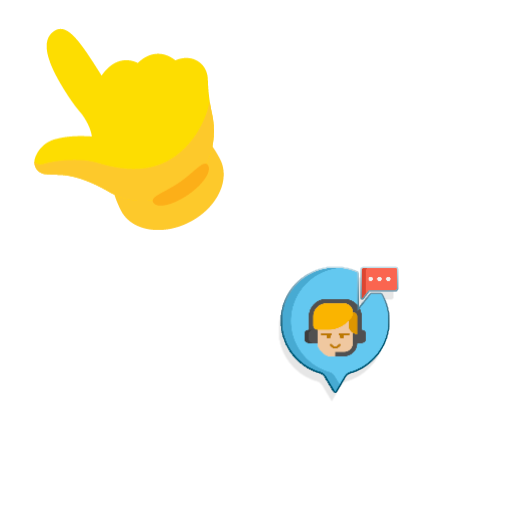
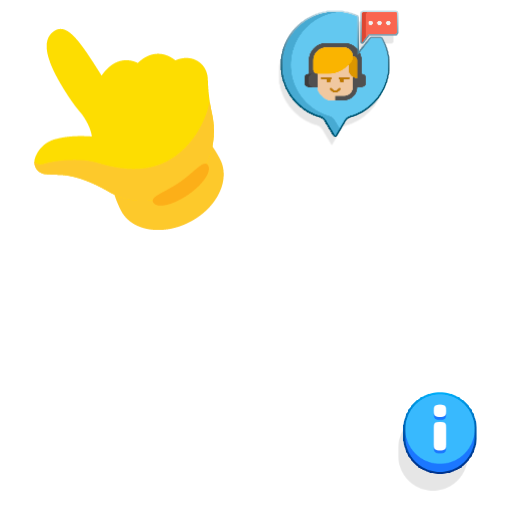
-

Changed region(s): [[0.5312, 0.5, 0.7812, 0.7812], [0.5312, 0.0, 0.7812, 0.2812], [0.7812, 0.75, 0.9375, 0.9688]]

diff --git a/puzzlegame/game_html/scripts/c3runtime.js b/puzzlegame/game_html/scripts/c3runtime.js
@@ -1543,6 +1543,12 @@ function or(l, r)
 
 self.C3_ExpressionFuncs = [
 		() => 0,
+		p => {
+			const f0 = p._GetNode(0).GetBoundMethod();
+			return () => f0(0);
+		},
+		() => "Portrait",
+		() => "Landscape",
 		() => "projectVers",
 		p => {
 			const f0 = p._GetNode(0).GetBoundMethod();
@@ -1551,13 +1557,45 @@ self.C3_ExpressionFuncs = [
 		() => "Categories",
 		() => "Pieces",
 		() => "",
-		() => "UpdateUI",
+		() => "tutorial_gameplay",
+		() => "i",
+		p => {
+			const n0 = p._GetNode(0);
+			return () => (n0.ExpObject() - 1);
+		},
+		p => {
+			const n0 = p._GetNode(0);
+			const f1 = p._GetNode(1).GetBoundMethod();
+			return () => n0.ExpObject(f1("i"), 0);
+		},
+		p => {
+			const n0 = p._GetNode(0);
+			const v1 = p._GetNode(1).GetVar();
+			return () => n0.ExpObject(v1.GetValue());
+		},
+		p => {
+			const v0 = p._GetNode(0).GetVar();
+			return () => v0.GetValue();
+		},
 		p => {
 			const f0 = p._GetNode(0).GetBoundMethod();
-			return () => f0(0);
+			return () => f0("i");
 		},
-		() => "Portrait",
-		() => "Landscape",
+		p => {
+			const n0 = p._GetNode(0);
+			const f1 = p._GetNode(1).GetBoundMethod();
+			return () => n0.ExpObject(f1("i"), 1);
+		},
+		p => {
+			const n0 = p._GetNode(0);
+			const v1 = p._GetNode(1).GetVar();
+			return () => n0.ExpObject((("catName.ru" + ".") + v1.GetValue()));
+		},
+		p => {
+			const v0 = p._GetNode(0).GetVar();
+			return () => (v0.GetValue() + 1);
+		},
+		() => "UpdateUI",
 		p => {
 			const n0 = p._GetNode(0);
 			return () => n0.ExpObject();
@@ -1642,10 +1680,6 @@ self.C3_ExpressionFuncs = [
 		p => {
 			const n0 = p._GetNode(0);
 			return () => (40 + (n0.ExpObject() * 20));
-		},
-		p => {
-			const v0 = p._GetNode(0).GetVar();
-			return () => v0.GetValue();
 		},
 		p => {
 			const n0 = p._GetNode(0);
@@ -1972,11 +2006,6 @@ self.C3_ExpressionFuncs = [
 			return () => n0.ExpObject(and(("dailyPuzzleBottom." + v1.GetValue()), f2(".0", ".1", ".2")));
 		},
 		() => "daily",
-		p => {
-			const n0 = p._GetNode(0);
-			const v1 = p._GetNode(1).GetVar();
-			return () => n0.ExpObject((("catName.ru" + ".") + v1.GetValue()));
-		},
 		p => {
 			const n0 = p._GetNode(0);
 			const n1 = p._GetNode(1);
@@ -2319,6 +2348,16 @@ self.C3_ExpressionFuncs = [
 			const n1 = p._GetNode(1);
 			return () => (f0(0) - (n1.ExpObject() / 6));
 		},
+		p => {
+			const f0 = p._GetNode(0).GetBoundMethod();
+			const n1 = p._GetNode(1);
+			return () => (f0(0) + n1.ExpObject());
+		},
+		p => {
+			const f0 = p._GetNode(0).GetBoundMethod();
+			const n1 = p._GetNode(1);
+			return () => (f0(0) - n1.ExpObject());
+		},
 		() => "bottom",
 		() => "orderCategories",
 		() => "BG",
@@ -2400,8 +2439,6 @@ self.C3_ExpressionFuncs = [
 			return () => (n0.ExpObject() * 80);
 		},
 		() => "savedTime",
-		() => "tutorial",
-		() => "tutorial_gameplay",
 		() => "sound",
 		p => {
 			const n0 = p._GetNode(0);
@@ -2412,8 +2449,6 @@ self.C3_ExpressionFuncs = [
 			const n1 = p._GetNode(1);
 			return () => and("unlock_", n0.ExpObject(n1.ExpObject()));
 		},
-		() => "Tutorial",
-		() => "Buttons",
 		p => {
 			const f0 = p._GetNode(0).GetBoundMethod();
 			return () => f0("Data");
@@ -2430,10 +2465,6 @@ self.C3_ExpressionFuncs = [
 			const n0 = p._GetNode(0);
 			return () => n0.ExpObject("sound");
 		},
-		p => {
-			const n0 = p._GetNode(0);
-			return () => n0.ExpObject("tutorial");
-		},
 		() => "progress",
 		p => {
 			const f0 = p._GetNode(0).GetBoundMethod();
@@ -2448,12 +2479,14 @@ self.C3_ExpressionFuncs = [
 			const v1 = p._GetNode(1).GetVar();
 			return () => ((v0.GetValue() / v1.GetValue()) * 100);
 		},
+		() => "Buttons",
 		p => {
 			const f0 = p._GetNode(0).GetBoundMethod();
 			return () => f0(3, 5);
 		},
 		() => "Daily",
 		() => -15,
+		() => "cat",
 		p => {
 			const n0 = p._GetNode(0);
 			const v1 = p._GetNode(1).GetVar();
@@ -2488,11 +2521,13 @@ self.C3_ExpressionFuncs = [
 			const n0 = p._GetNode(0);
 			return () => ((n0.ExpObject()) ? (0) : (1));
 		},
+		() => "Tutorial",
 		p => {
 			const v0 = p._GetNode(0).GetVar();
 			return () => C3.clamp((v0.GetValue() + 1), 0, 6);
 		},
 		() => 45,
+		() => "tutorial",
 		p => {
 			const n0 = p._GetNode(0);
 			const v1 = p._GetNode(1).GetVar();
@@ -2528,6 +2563,10 @@ self.C3_ExpressionFuncs = [
 			const v1 = p._GetNode(1).GetVar();
 			return () => n0.ExpObject(("step5." + v1.GetValue()));
 		},
+		p => {
+			const n0 = p._GetNode(0);
+			return () => (n0.ExpObject() - 100);
+		},
 		() => "Debug",
 		p => {
 			const n0 = p._GetNode(0);
@@ -2542,10 +2581,6 @@ self.C3_ExpressionFuncs = [
 		() => "Вася Васильев",
 		() => 75,
 		() => "scr.png",
-		p => {
-			const n0 = p._GetNode(0);
-			return () => (n0.ExpObject() - 1);
-		},
 		p => {
 			const f0 = p._GetNode(0).GetBoundMethod();
 			return () => f0("x");

diff --git a/puzzlegame/game_html/scripts/objRefTable.js b/puzzlegame/game_html/scripts/objRefTable.js
@@ -29,6 +29,11 @@ self.C3_GetObjectRefTable = function () {
 		C3.Plugins.System.Cnds.OnLayoutStart,
 		C3.Plugins.System.Acts.SetVar,
 		C3.Plugins.System.Acts.SetBoolVar,
+		C3.Plugins.System.Cnds.Compare,
+		C3.Plugins.System.Exps.viewportwidth,
+		C3.Plugins.System.Exps.viewportheight,
+		C3.Plugins.Browser.Cnds.IsPortraitLandscape,
+		C3.Plugins.Sprite.Acts.SetAnim,
 		C3.Plugins.Spritefont2.Cnds.HasTags,
 		C3.Plugins.Spritefont2.Acts.SetText,
 		C3.Plugins.System.Exps.projectversion,
@@ -36,12 +41,16 @@ self.C3_GetObjectRefTable = function () {
 		C3.Plugins.System.Acts.SetLayerInteractive,
 		C3.Plugins.System.Acts.SetLayerVisible,
 		C3.Plugins.System.Cnds.Else,
+		C3.Plugins.Dictionary.Cnds.HasKey,
+		C3.Plugins.System.Cnds.For,
+		C3.Plugins.Arr.Exps.Width,
+		C3.Plugins.Arr.Exps.At,
+		C3.Plugins.System.Exps.loopindex,
+		C3.Plugins.Dictionary.Exps.Get,
+		C3.Plugins.System.Cnds.CompareVar,
+		C3.Plugins.Json.Exps.Get,
+		C3.Plugins.System.Acts.StopLoop,
 		C3.Plugins.System.Cnds.IsGroupActive,
-		C3.Plugins.System.Cnds.Compare,
-		C3.Plugins.System.Exps.viewportwidth,
-		C3.Plugins.System.Exps.viewportheight,
-		C3.Plugins.Browser.Cnds.IsPortraitLandscape,
-		C3.Plugins.Sprite.Acts.SetAnim,
 		C3.Plugins.NinePatch.Exps.Count,
 		C3.Plugins.NinePatch.Acts.Destroy,
 		C3.Plugins.Sprite.Acts.Destroy,
@@ -62,12 +71,10 @@ self.C3_GetObjectRefTable = function () {
 		C3.Plugins.Sprite.Acts.SetZ,
 		C3.Plugins.NinePatch.Exps.BBoxRight,
 		C3.Plugins.Arr.Cnds.ArrForEach,
-		C3.Plugins.Arr.Exps.At,
 		C3.Plugins.Arr.Exps.CurX,
 		C3.Plugins.Sprite.Acts.SetInstanceVar,
 		C3.Plugins.NinePatch.Exps.BBoxMidX,
 		C3.Plugins.NinePatch.Acts.SetInstanceVar,
-		C3.Plugins.Dictionary.Exps.Get,
 		C3.Plugins.NinePatch.Acts.SetDefaultColor,
 		C3.Plugins.System.Exps.hexcolor,
 		C3.Plugins.NinePatch.Acts.MoveToLayer,
@@ -77,8 +84,6 @@ self.C3_GetObjectRefTable = function () {
 		C3.Plugins.Spritefont2.Acts.SetY,
 		C3.Plugins.NinePatch.Acts.SetBoolInstanceVar,
 		C3.Plugins.TiledBg.Acts.SetWidth,
-		C3.Plugins.Json.Exps.Get,
-		C3.Plugins.System.Cnds.CompareVar,
 		C3.Plugins.Sprite.Acts.SetVisible,
 		C3.Plugins.TiledBg.Acts.SetVisible,
 		C3.Plugins.NinePatch.Acts.SetOpacity,
@@ -124,8 +129,6 @@ self.C3_GetObjectRefTable = function () {
 		C3.Behaviors.Timer.Exps.Duration,
 		C3.Behaviors.Timer.Exps.CurrentTime,
 		C3.Behaviors.DragnDrop.Acts.SetEnabled,
-		C3.Plugins.System.Cnds.For,
-		C3.Plugins.System.Exps.loopindex,
 		C3.Plugins.DrawingCanvas.Acts.AddChild,
 		C3.Plugins.DrawingCanvas.Acts.SetInstanceVar,
 		C3.Plugins.DrawingCanvas.Acts.OutlineRect,
@@ -194,6 +197,7 @@ self.C3_GetObjectRefTable = function () {
 		C3.Behaviors.Tween.Acts.TweenValue,
 		C3.Plugins.System.Acts.SetLayoutAngle,
 		C3.Behaviors.Tween.Exps.Value,
+		C3.Plugins.TiledBg.Acts.Destroy,
 		C3.Plugins.Touch.Cnds.OnTapGestureObject,
 		C3.Plugins.Touch.Cnds.IsTouchingObject,
 		C3.Plugins.NinePatch.Exps.LayerName,
@@ -223,6 +227,7 @@ self.C3_GetObjectRefTable = function () {
 		C3.Plugins.Eponesh_GameScore.Cnds.IsAdsStickyPlaying,
 		C3.Plugins.Eponesh_GameScore.Acts.AdsShowSticky,
 		C3.Plugins.System.Exps.viewportright,
+		C3.Plugins.System.Exps.viewportleft,
 		C3.Plugins.AJAX.Acts.RequestFile,
 		C3.Plugins.Audio.Cnds.IsTagPlaying,
 		C3.Plugins.Eponesh_GameScore.Cnds.PlayerHasKey,
@@ -235,23 +240,19 @@ self.C3_GetObjectRefTable = function () {
 		C3.Plugins.AJAX.Cnds.OnComplete,
 		C3.Plugins.Arr.Acts.JSONLoad,
 		C3.Plugins.AJAX.Exps.LastData,
-		C3.Plugins.Arr.Exps.Width,
 		C3.Plugins.Eponesh_GameScore.Acts.LeaderboardFetchPlayerRatingScoped,
 		C3.Plugins.LocalStorage.Acts.CheckItemExists,
 		C3.Plugins.Date.Exps.Now,
-		C3.Plugins.System.Acts.SetGroupActive,
 		C3.Plugins.Dictionary.Acts.JSONLoad,
 		C3.Plugins.Eponesh_GameScore.Exps.PlayerGet,
 		C3.Plugins.Audio.Acts.SetSilent,
-		C3.Plugins.TiledBg.Acts.Destroy,
-		C3.Plugins.Spritefont2.Acts.Destroy,
-		C3.Plugins.Dictionary.Cnds.HasKey,
-		C3.TypeScriptInEvents.E_menu_Event63_Act1,
+		C3.TypeScriptInEvents.E_menu_Event59_Act1,
+		C3.TypeScriptInEvents.E_menu_Event66_Act1,
 		C3.Plugins.Eponesh_GameScore.Acts.AdsShowFullscreen,
-		C3.TypeScriptInEvents.E_menu_Event70_Act1,
+		C3.TypeScriptInEvents.E_menu_Event73_Act1,
 		C3.Plugins.Eponesh_GameScore.Acts.LeaderboardOpenScoped,
 		C3.Plugins.Eponesh_GameScore.Acts.AchievementsOpen,
-		C3.JavaScriptInEvents.E_menu_Event75_Act1,
+		C3.JavaScriptInEvents.E_menu_Event78_Act1,
 		C3.Plugins.Sprite.Acts.ToggleBoolInstanceVar,
 		C3.Plugins.Sprite.Cnds.IsBoolInstanceVarSet,
 		C3.Plugins.Sprite.Exps.AnimationFrame,
@@ -267,9 +268,9 @@ self.C3_GetObjectRefTable = function () {
 		C3.Plugins.Spritefont2.Cnds.IsRunningTypewriterText,
 		C3.Plugins.Spritefont2.Acts.TypewriterFinish,
 		C3.Plugins.Spritefont2.Acts.TypewriterText,
-		C3.Plugins.Sprite.Exps.BBoxMidX,
 		C3.Plugins.Eponesh_GameScore.Acts.AchievementsUnlock,
 		C3.Plugins.Spritefont2.Cnds.OnTypewriterTextFinished,
+		C3.Plugins.System.Acts.SetGroupActive,
 		C3.Plugins.Keyboard.Cnds.OnKey,
 		C3.Plugins.Mouse.Cnds.IsOverObject,
 		C3.Plugins.LocalStorage.Acts.ClearStorage,
@@ -399,6 +400,7 @@ self.C3_JsPropNameTable = [
 	{tutorial_cursor: 0},
 	{BS: 0},
 	{popup_icons: 0},
+	{info: 0},
 	{puzzlePieceFamily: 0},
 	{allText: 0},
 	{PiecesPerLine: 0},
@@ -415,13 +417,16 @@ self.C3_JsPropNameTable = [
 	{shows: 0},
 	{isDailyStart: 0},
 	{DailyTimeSeconds: 0},
+	{nextCat: 0},
+	{nextLevel: 0},
+	{found: 0},
+	{level: 0},
 	{prevCompleted: 0},
 	{hasPlayable: 0},
 	{isUnlock: 0},
 	{contentHeight: 0},
 	{tier: 0},
 	{category: 0},
-	{level: 0},
 	{CurrentIndex: 0},
 	{margin: 0},
 	{x: 0},
@@ -448,11 +453,13 @@ self.C3_JsPropNameTable = [
 	{curProgress: 0},
 	{maxProgress: 0},
 	{isDaily: 0},
+	{isPlay: 0},
 	{progressWidth: 0},
 	{language: 0},
 	{isPing: 0},
 	{ping: 0},
 	{step: 0},
+	{isInfo: 0},
 	{canTouch: 0},
 	{isPopupShowing: 0},
 	{top_text: 0},
@@ -529,6 +536,7 @@ self.InstanceType = {
 	tutorial_cursor: class extends self.ISpriteInstance {},
 	BS: class extends self.ITiledBackgroundInstance {},
 	popup_icons: class extends self.ISpriteInstance {},
+	info: class extends self.ISpriteInstance {},
 	puzzlePieceFamily: class extends self.IDrawingCanvasInstance {},
 	allText: class extends self.ISpriteFontInstance {}
 }

diff --git a/puzzlegame/game_html/scripts/project/typeScriptInEvents.js b/puzzlegame/game_html/scripts/project/typeScriptInEvents.js
@@ -9,7 +9,7 @@ const scriptsInEvents = {
             runtime.callFunction("OnPing", ping);
         });
     },
-    async E_menu_Event63_Act1(runtime, localVars) {
+    async E_menu_Event59_Act1(runtime, localVars) {
         function checkPing() {
             return fetch("https://arturbier.github.io/puzzlegame/ping.json", { mode: "no-cors" })
                 .then(() => localVars.ping = 1)
@@ -19,7 +19,17 @@ const scriptsInEvents = {
             runtime.callFunction("OnPing", ping);
         });
     },
-    async E_menu_Event70_Act1(runtime, localVars) {
+    async E_menu_Event73_Act1(runtime, localVars) {
+        function checkPing() {
+            return fetch("https://arturbier.github.io/puzzlegame/ping.json", { mode: "no-cors" })
+                .then(() => localVars.ping = 1)
+                .catch(() => localVars.ping = 0);
+        }
+        checkPing().then(ping => {
+            runtime.callFunction("OnPing", ping);
+        });
+    },
+    async E_menu_Event66_Act1(runtime, localVars) {
         function checkPing() {
             return fetch("https://arturbier.github.io/puzzlegame/ping.json", { mode: "no-cors" })
                 .then(() => localVars.ping = 1)

diff --git a/puzzlegame/game_html/scripts/project/javaScriptInEvents.js b/puzzlegame/game_html/scripts/project/javaScriptInEvents.js
@@ -9,7 +9,7 @@
 
 const scriptsInEvents = {
 
-	async E_menu_Event75_Act1(runtime, localVars)
+	async E_menu_Event78_Act1(runtime, localVars)
 	{
 		runtime.GamePush.feedbacks.open();
 	},